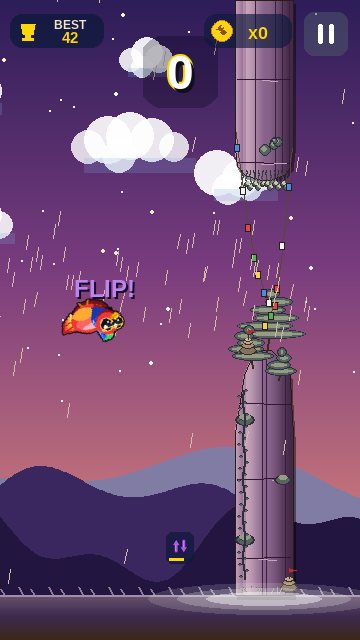
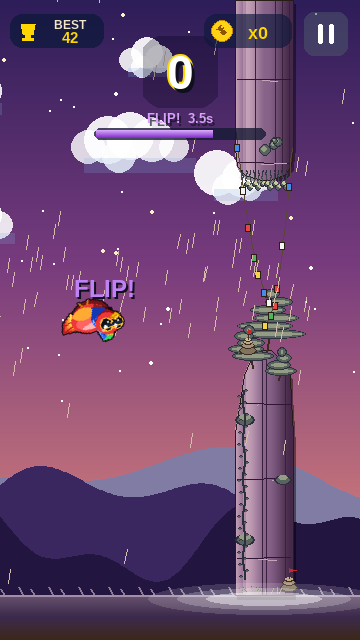
Reverse power-up: stylish gradient arrows + dedicated timer bar
Icon now uses a single unified arrow silhouette per side (head + shaft
as one polygon) filled with a vertical lavender→violet→deep-purple
gradient, plus a dark outline and a thin specular sheen along the
leading edge. The "leading" tip always reads brightest, so up- and
down-arrows are visually balanced.

Active state gets the same prominent treatment as 3X POWER: a big
purple-gradient timer bar centered at the top with a "FLIP!  X.Xs"
label that pulses red and lerps to magenta in the final 25%. When 3X
is also active the bar stacks just below it. Removed the small badge
from the active-buff strip since it's now redundant.

Changed region(s): [[0.2444, 0.1562, 0.7333, 0.2188], [0.4583, 0.8125, 0.55, 0.9062]]

diff --git a/game/entities.py b/game/entities.py
@@ -204,83 +204,129 @@ def _build_reverse_icon(out_diameter: int) -> pygame.Surface:
     size = out_diameter * SS
     surf = pygame.Surface((size, size), pygame.SRCALPHA)
     cx = cy = size // 2
-    # Use a "radius" of half the surface (minus a tiny inset so the arrow tips
-    # don't clip the edge). This sets the arrow column geometry, not a disc.
     R = size // 2 - SS
 
-    purple_core    = (170, 90, 230)
-    purple_outline = (75, 25, 120)
-    purple_hl      = (215, 165, 250)
-
-    # Geometry in big-surface units.
+    # Geometry — slim, elegant arrows.
     top_y  = cy - R + SS
     bot_y  = cy + R - SS
-    head_h = (bot_y - top_y) * 4 // 10
-    shaft_w = R * 5 // 14
-    head_w  = shaft_w * 5 // 2
+    span   = bot_y - top_y
+    head_h = span * 42 // 100
+    shaft_w = R * 9 // 28
+    head_w  = shaft_w * 26 // 10
 
-    lx = cx - R // 2 - R // 16   # left (up-arrow) column
-    rx = cx + R // 2 + R // 16   # right (down-arrow) column
+    lx = cx - R // 2 - R // 14   # left (up-arrow) column
+    rx = cx + R // 2 + R // 14   # right (down-arrow) column
+
+    # Palette — vivid purple with a magenta-ward gradient.
+    grad_top    = (215, 165, 252)   # bright lavender (highlight end)
+    grad_mid    = (175, 95, 235)
+    grad_bot    = (110, 45, 180)    # deep violet (shaded end)
+    outline_dk  = (45, 12, 80)
+    sheen       = (245, 220, 255)
+
+    def _silhouette(col_x: int, *, point_up: bool, expand: int = 0):
+        """Return the polygon points for the unified arrow silhouette,
+        optionally expanded by `expand` pixels (used to draw the outline)."""
+        e = expand
+        sw = shaft_w + e * 2
+        hw = head_w + e * 2
+        if point_up:
+            tip   = (col_x, top_y - e)
+            base  = bot_y + e
+            sh_l  = col_x - sw // 2
+            sh_r  = col_x + sw // 2
+            hd_l  = col_x - hw // 2
+            hd_r  = col_x + hw // 2
+            sh_y  = top_y + head_h - e // 2
+            return [
+                tip,
+                (hd_r, sh_y),
+                (sh_r, sh_y),
+                (sh_r, base),
+                (sh_l, base),
+                (sh_l, sh_y),
+                (hd_l, sh_y),
+            ]
+        else:
+            tip   = (col_x, bot_y + e)
+            base  = top_y - e
+            sh_l  = col_x - sw // 2
+            sh_r  = col_x + sw // 2
+            hd_l  = col_x - hw // 2
+            hd_r  = col_x + hw // 2
+            sh_y  = bot_y - head_h + e // 2
+            return [
+                tip,
+                (hd_l, sh_y),
+                (sh_l, sh_y),
+                (sh_l, base),
+                (sh_r, base),
+                (sh_r, sh_y),
+                (hd_r, sh_y),
+            ]
 
     def _arrow(col_x: int, *, point_up: bool):
+        # 1) Outline silhouette (slightly expanded, dark violet).
+        pygame.draw.polygon(surf, outline_dk,
+                            _silhouette(col_x, point_up=point_up, expand=SS))
+
+        # 2) Vertical gradient fill — light at the head, dark at the tail
+        #    when the arrow points up; reversed for the down arrow so the
+        #    "leading" tip always reads brightest.
+        body = _silhouette(col_x, point_up=point_up, expand=0)
+        body_surf = pygame.Surface((size, size), pygame.SRCALPHA)
+        # Scanline gradient: lerp grad_top → grad_mid → grad_bot from top to bottom
+        # of the arrow's vertical extent. Reverse order for down-arrows.
+        ys = [p[1] for p in body]
+        y0, y1 = min(ys), max(ys)
+        for y in range(y0, y1 + 1):
+            t = (y - y0) / max(1, (y1 - y0))
+            if not point_up:
+                t = 1.0 - t
+            if t < 0.5:
+                u = t * 2
+                col = (
+                    int(grad_top[0] + (grad_mid[0] - grad_top[0]) * u),
+                    int(grad_top[1] + (grad_mid[1] - grad_top[1]) * u),
+                    int(grad_top[2] + (grad_mid[2] - grad_top[2]) * u),
+                )
+            else:
+                u = (t - 0.5) * 2
+                col = (
+                    int(grad_mid[0] + (grad_bot[0] - grad_mid[0]) * u),
+                    int(grad_mid[1] + (grad_bot[1] - grad_mid[1]) * u),
+                    int(grad_mid[2] + (grad_bot[2] - grad_mid[2]) * u),
+                )
+            pygame.draw.line(body_surf, col, (0, y), (size, y))
+        # Mask the gradient strip to the arrow polygon.
+        mask = pygame.Surface((size, size), pygame.SRCALPHA)
+        pygame.draw.polygon(mask, (255, 255, 255, 255), body)
+        body_surf.blit(mask, (0, 0), special_flags=pygame.BLEND_RGBA_MULT)
+        surf.blit(body_surf, (0, 0))
+
+        # 3) Specular sheen on the leading edge — a thin lighter ribbon
+        #    along the left side of the shaft + along the inner edge of one
+        #    head wing, giving the arrow a 3-D feel without a background.
         if point_up:
-            head_top  = top_y
-            head_bot  = top_y + head_h
-            shaft_top = head_bot - SS
-            shaft_bot = bot_y
+            sh_y = top_y + head_h
+            pygame.draw.line(surf, sheen,
+                             (col_x - shaft_w // 2 + SS, sh_y + SS),
+                             (col_x - shaft_w // 2 + SS, bot_y - SS),
+                             max(2, SS // 2))
+            pygame.draw.line(surf, sheen,
+                             (col_x - SS, top_y + SS * 2),
+                             (col_x - head_w // 2 + SS * 2, sh_y - SS // 2),
+                             max(2, SS // 2))
         else:
-            head_top  = bot_y - head_h
-            head_bot  = bot_y
-            shaft_top = top_y
-            shaft_bot = head_top + SS
-
-        ow = SS  # outline thickness in big-surface units
-
-        # Dark outline silhouette, drawn larger.
-        if point_up:
-            head_out = [
-                (col_x - head_w // 2 - ow, head_bot + ow),
-                (col_x + head_w // 2 + ow, head_bot + ow),
-                (col_x, head_top - ow),
-            ]
-        else:
-            head_out = [
-                (col_x - head_w // 2 - ow, head_top - ow),
-                (col_x + head_w // 2 + ow, head_top - ow),
-                (col_x, head_bot + ow),
-            ]
-        pygame.draw.polygon(surf, purple_outline, head_out)
-        pygame.draw.rect(surf, purple_outline,
-                         (col_x - shaft_w // 2 - ow, shaft_top - ow,
-                          shaft_w + ow * 2,
-                          shaft_bot - shaft_top + ow * 2),
-                         border_radius=shaft_w // 3)
-
-        # Purple fill.
-        if point_up:
-            head_pts = [
-                (col_x - head_w // 2, head_bot),
-                (col_x + head_w // 2, head_bot),
-                (col_x, head_top),
-            ]
-        else:
-            head_pts = [
-                (col_x - head_w // 2, head_top),
-                (col_x + head_w // 2, head_top),
-                (col_x, head_bot),
-            ]
-        pygame.draw.polygon(surf, purple_core, head_pts)
-        pygame.draw.rect(surf, purple_core,
-                         (col_x - shaft_w // 2, shaft_top,
-                          shaft_w, shaft_bot - shaft_top),
-                         border_radius=shaft_w // 3)
-
-        # Subtle highlight stripe on the left edge of the shaft so the arrow
-        # has a hint of dimension without a full background.
-        pygame.draw.rect(surf, purple_hl,
-                         (col_x - shaft_w // 3, shaft_top + ow,
-                          max(2, shaft_w // 5), shaft_bot - shaft_top - ow * 2),
-                         border_radius=shaft_w // 5)
+            sh_y = bot_y - head_h
+            pygame.draw.line(surf, sheen,
+                             (col_x - shaft_w // 2 + SS, top_y + SS),
+                             (col_x - shaft_w // 2 + SS, sh_y - SS),
+                             max(2, SS // 2))
+            pygame.draw.line(surf, sheen,
+                             (col_x - SS, bot_y - SS * 2),
+                             (col_x - head_w // 2 + SS * 2, sh_y + SS // 2),
+                             max(2, SS // 2))
 
     _arrow(lx, point_up=True)
     _arrow(rx, point_up=False)

diff --git a/game/hud.py b/game/hud.py
@@ -260,15 +260,47 @@ class HUD:
                                  border_radius=8, width=2)
                 surf.blit(ring, (bx - 5, by - 3))
 
-        # Active-buff strip (magnet + slowmo badges). Triple has its own
-        # bigger timer bar above, so we don't duplicate it here.
+        # Reverse-gravity timer bar — same prominent treatment as 3X POWER,
+        # stacked just below it so both can show simultaneously. Purple
+        # gradient depletes lavender → magenta → red.
+        if world.reverse_timer > 0:
+            frac = world.reverse_timer / REVERSE_DURATION
+            bw = 168
+            bx = (W - bw) // 2
+            by = 156 if world.triple_timer > 0 else 128
+            label_col = UI_RED if frac < 0.25 else (215, 160, 250)
+            _text(surf, f"FLIP!  {world.reverse_timer:.1f}s",
+                  (W // 2, by - 10), size=13, color=label_col, shadow=True)
+            track_rect = pygame.Rect(bx - 2, by, bw + 4, 12)
+            rounded_rect(surf, track_rect, 6, (20, 25, 50), 200)
+            if frac > 0.5:
+                fill_lo = (130, 50, 200)
+                fill_hi = (215, 165, 252)
+            elif frac > 0.25:
+                t = (frac - 0.25) / 0.25
+                fill_lo = lerp_color(UI_RED, (130, 50, 200), t)
+                fill_hi = lerp_color((230, 80, 160), (215, 165, 252), t)
+            else:
+                fill_lo = (180, 20, 60)
+                fill_hi = UI_RED
+            fill = pygame.Rect(bx, by + 2, int(bw * frac), 8)
+            if fill.width > 0:
+                rounded_rect_grad(surf, fill, 4, fill_hi, fill_lo)
+            if frac < 0.25:
+                pulse = 0.5 + 0.5 * math.sin(self.title_t * 14)
+                ring_a = int(140 * pulse)
+                ring = pygame.Surface((bw + 10, 18), pygame.SRCALPHA)
+                pygame.draw.rect(ring, (*UI_RED, ring_a), ring.get_rect(),
+                                 border_radius=8, width=2)
+                surf.blit(ring, (bx - 5, by - 3))
+
+        # Active-buff strip (magnet + slowmo badges). Triple and reverse have
+        # their own bigger timer bars above, so they're not duplicated here.
         active = []
         if world.magnet_timer > 0:
             active.append(("magnet", world.magnet_timer, MAGNET_DURATION))
         if world.slowmo_timer > 0:
             active.append(("slowmo", world.slowmo_timer, SLOWMO_DURATION))
-        if world.reverse_timer > 0:
-            active.append(("reverse", world.reverse_timer, REVERSE_DURATION))
         if active:
             slot_w, slot_h = 28, 32
             gap = 6
